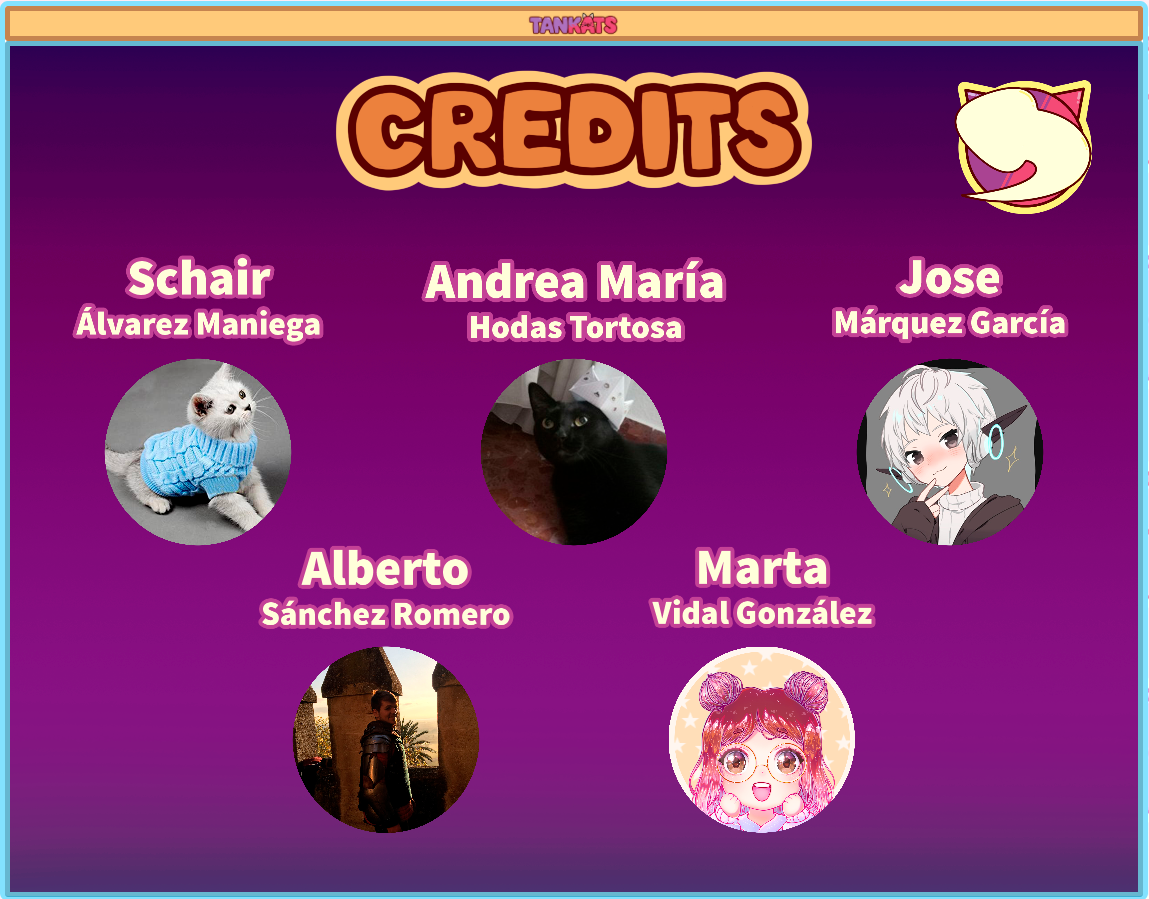
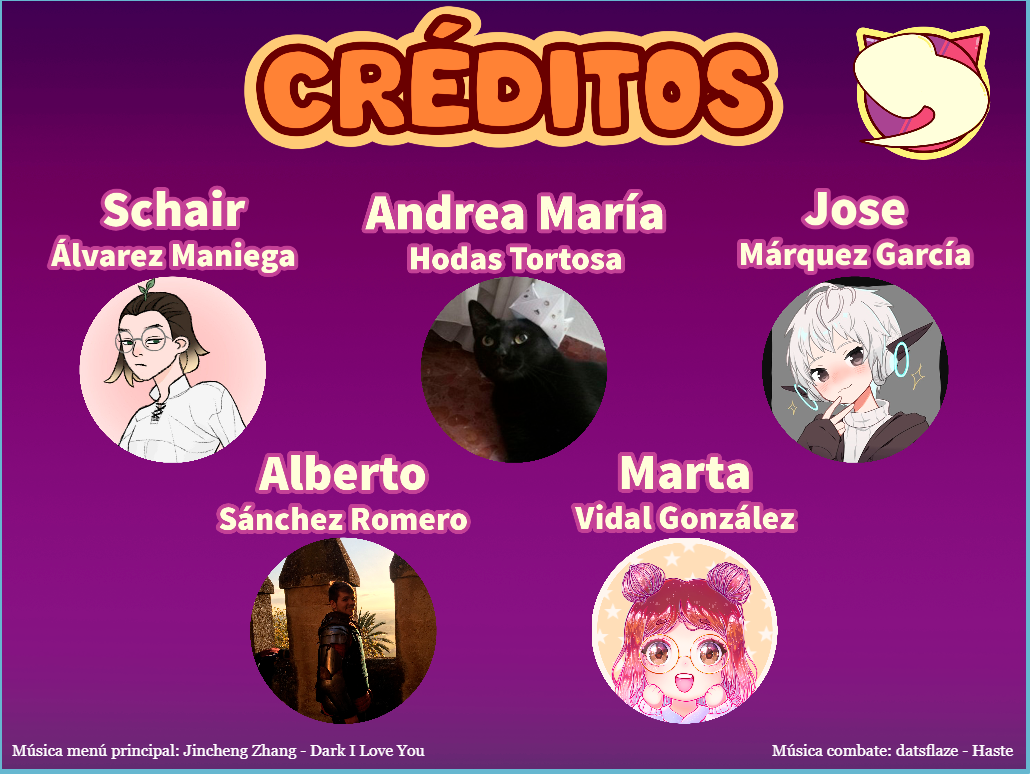
Final final

diff --git a/README.md b/README.md
@@ -222,7 +222,7 @@ Esta es la pantalla de configuración, desde aquí se puede "mutear" el juego o 
 
 #### 3
 ![alt text](https://github.com/Joymg/JER2021-MOS-10/blob/main/capturas/Captura3.PNG?raw=true)
-Esta es la pantalla de créditos, donde aparecen los nombres y fotos de los desarrolladores del videojuego. 
+Esta es la pantalla de créditos, donde aparecen los nombres, fotos de los desarrolladores del videojuego y los créditos de la música sin copyright utilizada. 
 
 #### 4
 ![alt text](https://github.com/Joymg/JER2021-MOS-10/blob/main/capturas/Captura4.PNG?raw=true)
